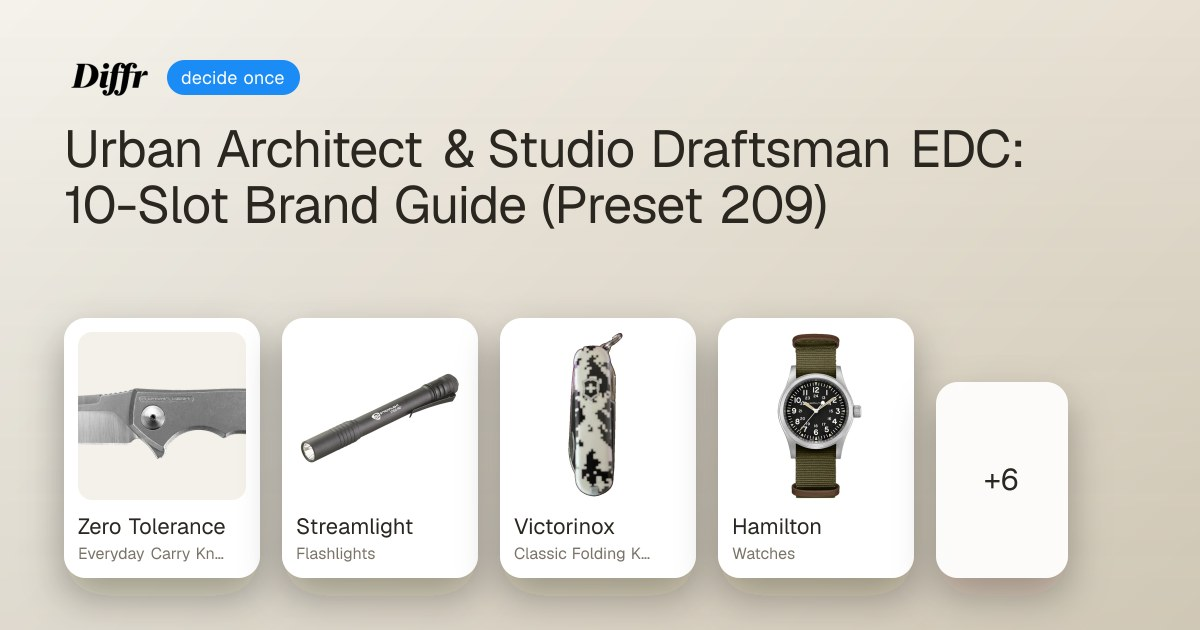
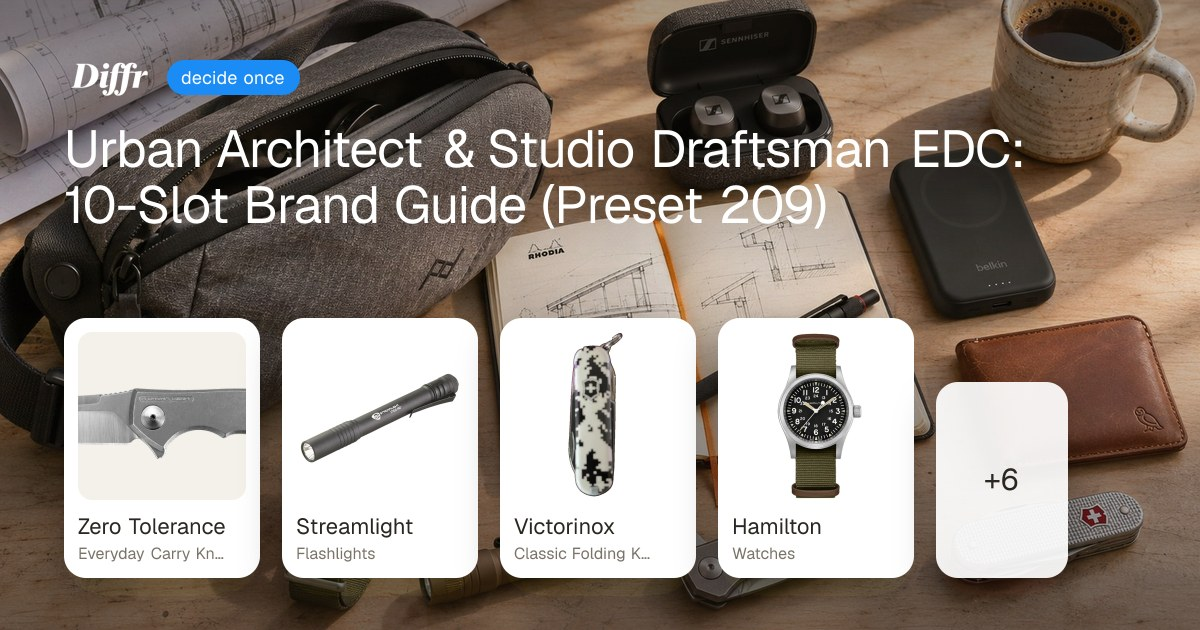
feat(diffr): add OG base covers and rebake share cards for presets 209-211

diff --git a/app/diffr/blog/og-base.ts b/app/diffr/blog/og-base.ts
@@ -122,6 +122,9 @@ export const OG_BASE_SLUGS = new Set<string>([
   'salomon-lines-explained',
   'arcteryx-vs-patagonia-brand-guide',
   'new-balance-lines-explained',
+  'urban-architect-edc-brand-guide',
+  'wimb-rainy-london-commute-brand-guide',
+  'styling-ivy-prep-autumn-brand-guide',
   '54321-packing-method-brand-guide',
   // Aritzia / athleisure rescue pages (2026-09-15)
   'wilfred-brand-guide',
